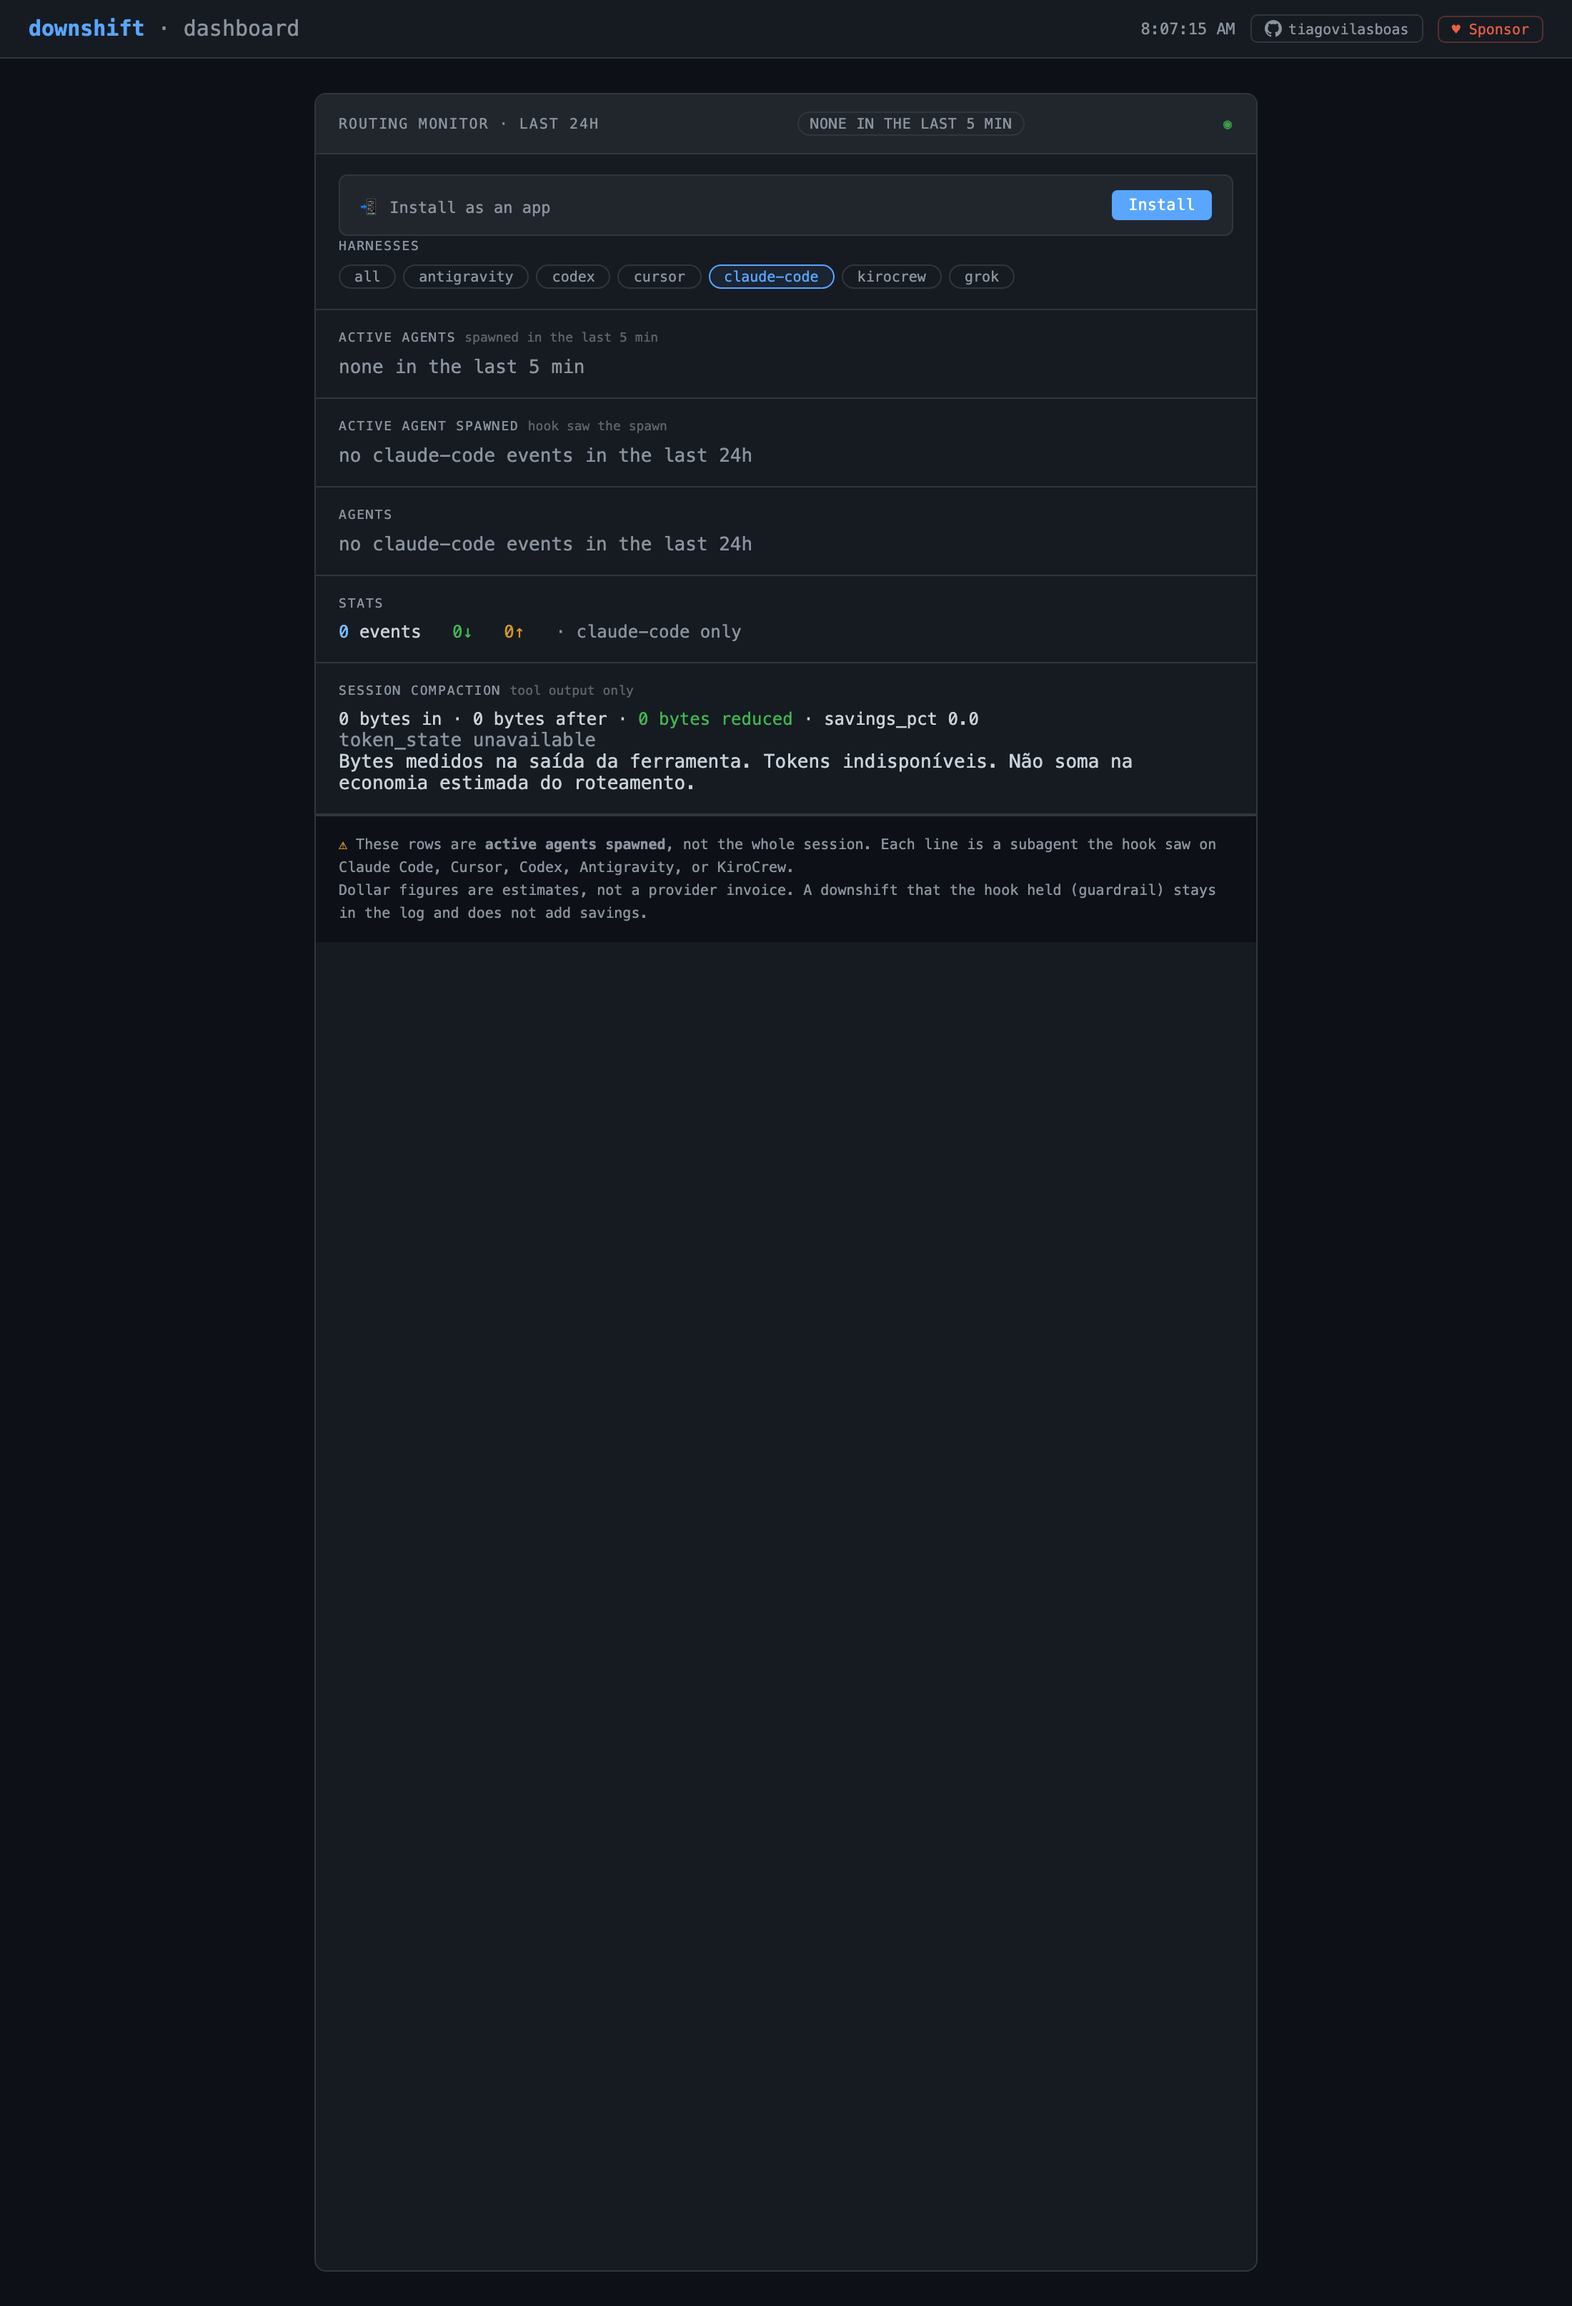
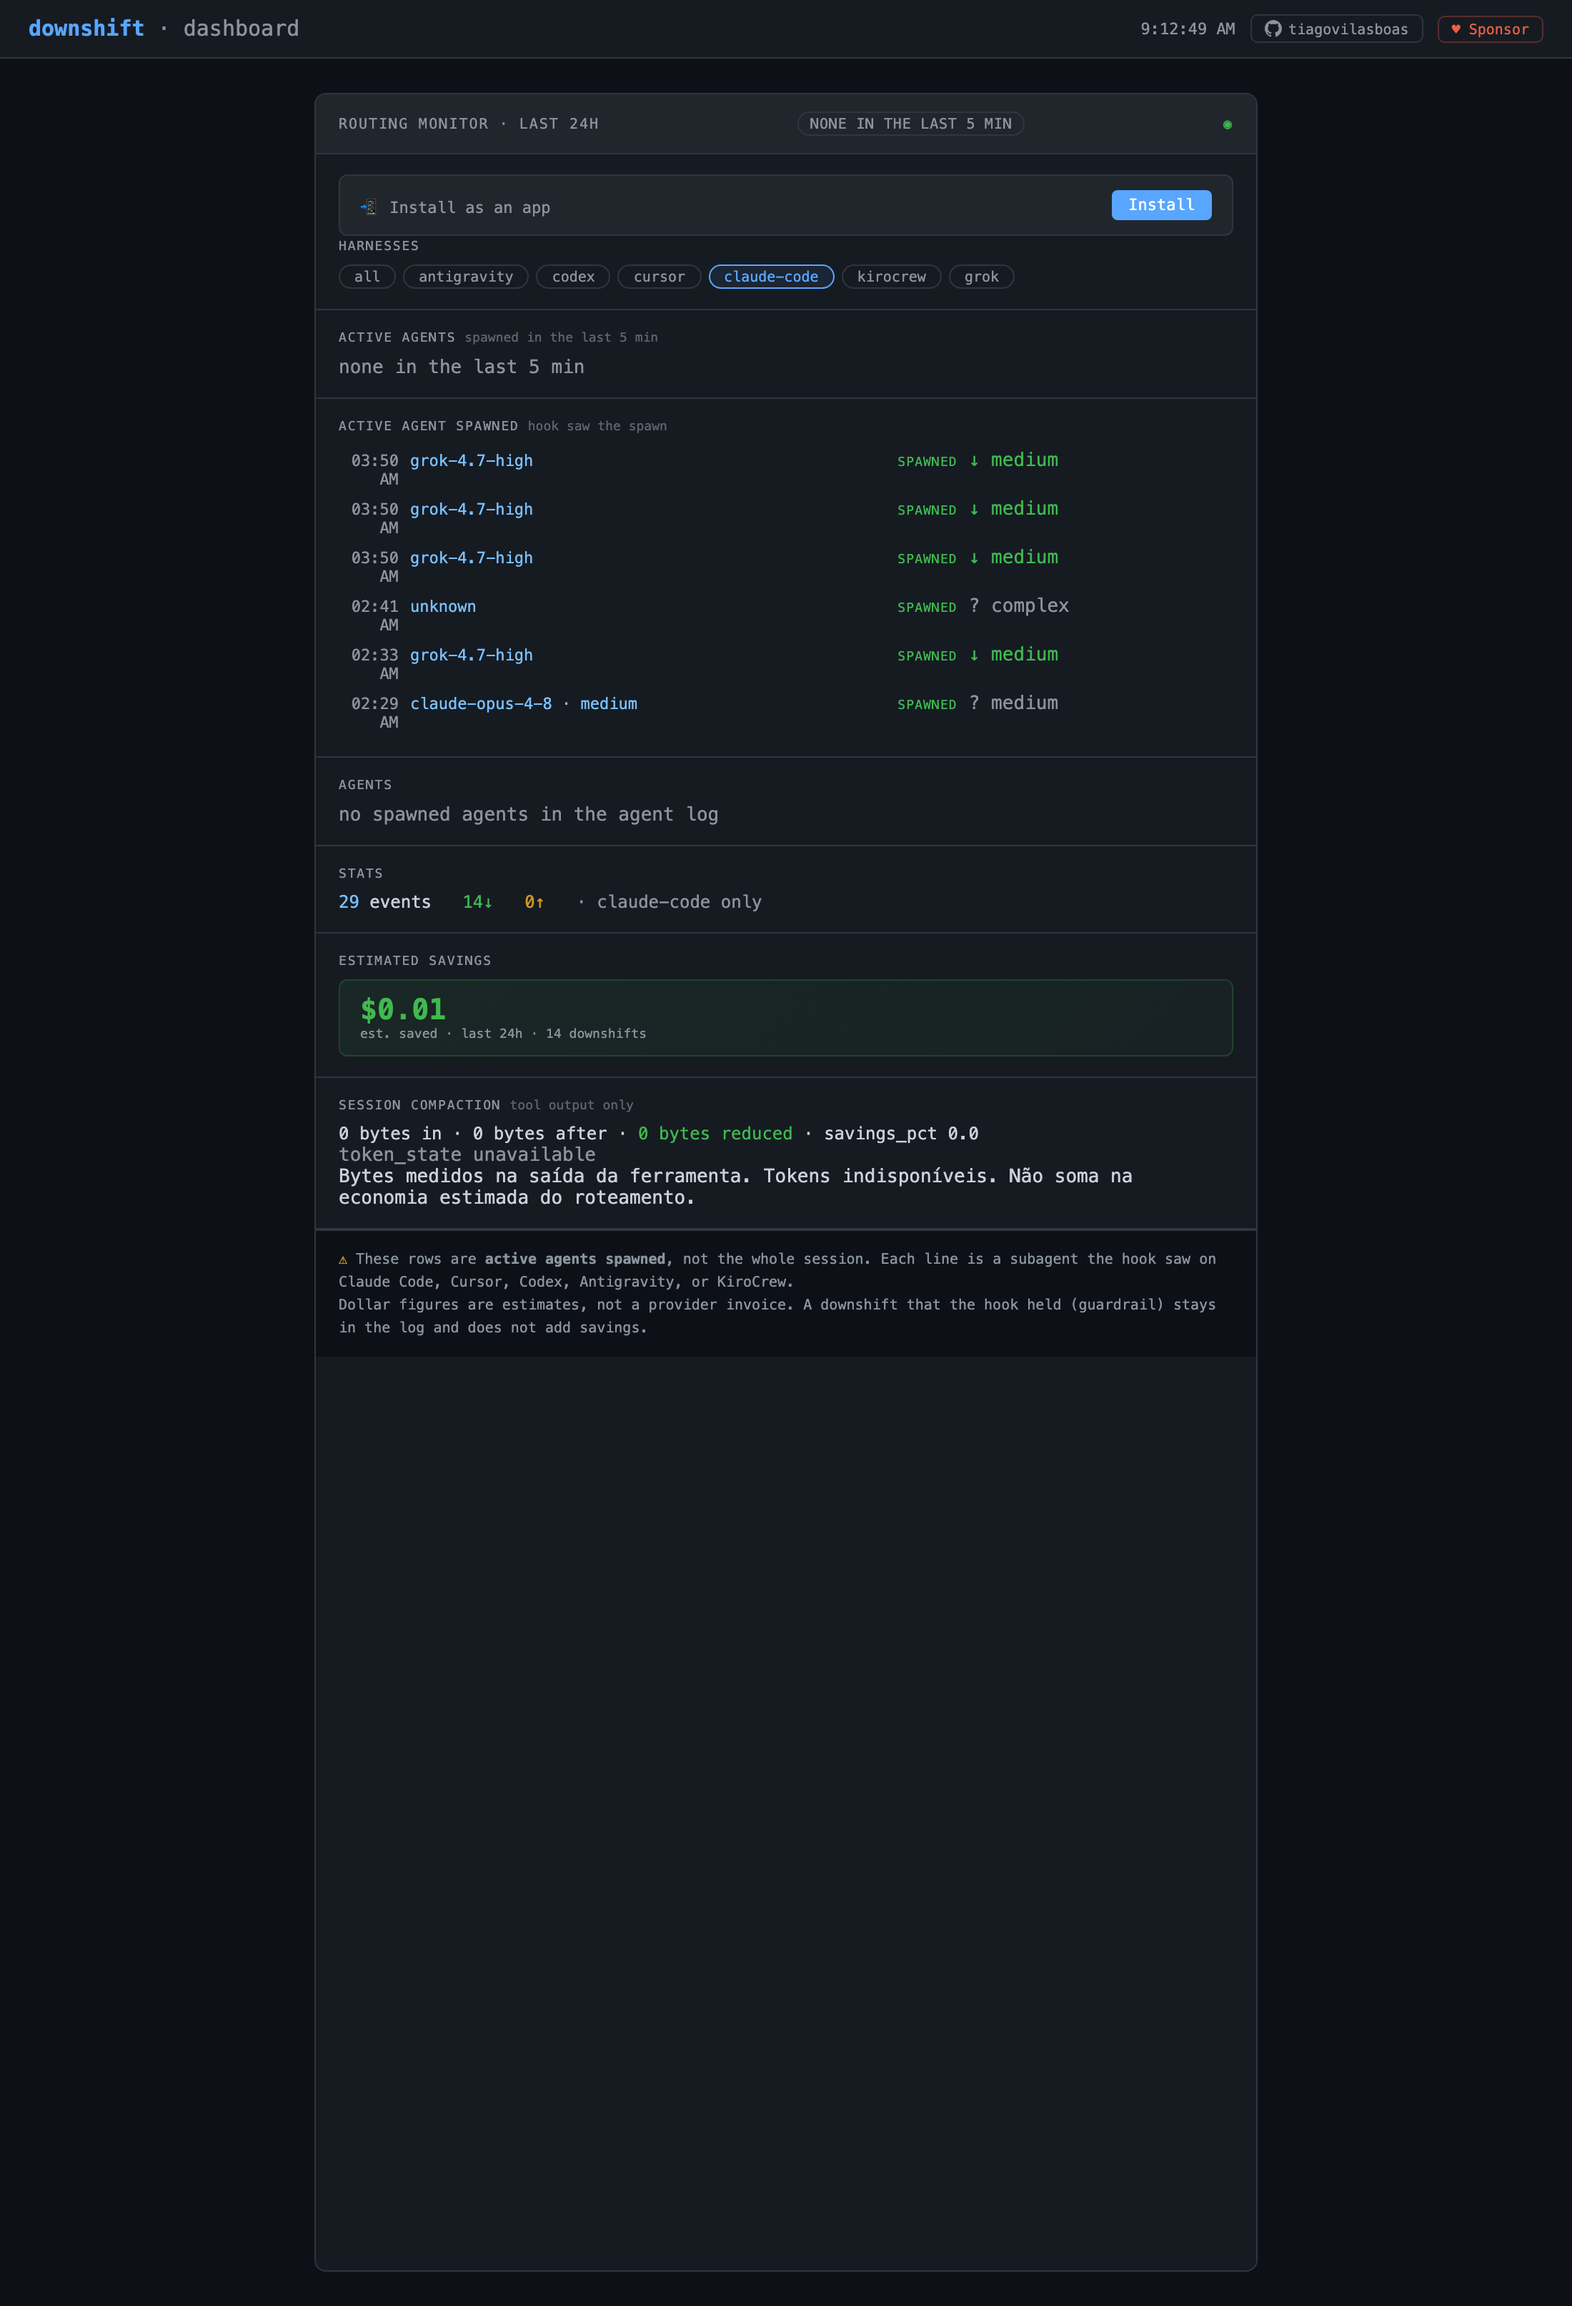
test(report): record the passing 24h e2e capture
Codex, Cursor, and Claude Code counts match the event log. KiroCrew stays empty because its last event is outside the window.

diff --git a/docs/evidence/report-e2e/report.md b/docs/evidence/report-e2e/report.md
@@ -1,44 +1,39 @@
-# Report e2e — BLOCK
+# Report e2e — PASS
 
-Captura `2026-10-09T11:07:16Z` em `http://127.0.0.1:7474`, binário `./downshift` gerado `2026-10-09 07:58:08` (depois de `fb55f8a`) e processo `./downshift serve` iniciado `07:58:14`. Sensor: `node --experimental-websocket docs/evidence/report-e2e/live-report.check.mjs` (exit 1). PNGs: `all.png`, `antigravity.png`, `codex.png`, `cursor.png`, `claude-code.png`, `kirocrew.png`, `grok.png`.
+Captura `2026-10-09T12:12:50.729Z` em `http://127.0.0.1:7474`. Health `200` às `2026-10-09T12:12:20Z` (`{"ok":true}`). O listener já devolvia a janela inteira (76 switches) e foi mantido: PID 28355, `./downshift serve`, iniciado `2026-10-09 08:58:49` local (11:58:49Z). Binário `./downshift` com mtime local `2026-10-09 08:10:51`.
 
-Log de compactação ausente: `~/.harness-downshift/context-compactions.jsonl` não existe. `compaction.by_harness` veio `{}`. Nenhuma linha de harness foi inventada.
+`go test ./internal/core/ ./internal/server/ ./internal/benchmark/ ./cmd/downshift/` — os quatro pacotes `ok` (cache).
 
-## Bloqueios
+Sensor: `node --experimental-websocket docs/evidence/report-e2e/live-report.check.mjs` (exit 0). `findings.json`: `verdict` PASS, `findings` vazio. PNGs: `all.png`, `antigravity.png`, `codex.png`, `cursor.png`, `claude-code.png`, `kirocrew.png`, `grok.png`. Relógio da tela: 9:12:49 AM local.
 
-1. **Codex mente janela de 24h.** A aba diz `no codex events in the last 24h` e `0 events`. `events.jsonl` tem 3 eventos nessa janela. Um deles é `2026-10-08T17:57:51Z`, `gpt-5.5`, `final_reasoning_effort=medium`, verdict `UPSHIFT`. A aba não mostra o id nem o effort.
-2. **Claude Code mente janela de 24h.** A aba diz `no claude-code events in the last 24h` e `0 events`. O log tem 29 eventos. Exemplo: `2026-10-09T02:02:42Z`, `claude-opus-4-8`, `final_reasoning_effort=medium`.
-3. **Cursor conta o rabo da API, não as 24h.** A aba mostra `8 events`, `4↓`, `$0.00` e 4 downshifts. O log tem 43 eventos cursor na janela. Os 8 de `/api/status` são todos `grok-4.7-xhigh` com `final_reasoning_effort=unknown` e `outcome=allow`. O `↓ medium` é a complexity `MEDIUM`. Eventos com effort ficaram de fora, por exemplo `2026-10-09T00:27:58Z` `muse-spark-1.3-high` · `high`.
-4. **Bloco agents do cursor nega os eventos da mesma tela.** Os switches listam `grok-4.7-xhigh` e o bloco agents diz `no cursor events in the last 24h`.
-
-Causa: `/api/status` devolve só os últimos 8 decisions. Na captura, os 8 são cursor. O chip trata esse rabo como a janela de 24h.
-
-Repro: abrir `http://127.0.0.1:7474`, clicar em codex, claude-code e cursor, e comparar com `events.jsonl` nas últimas 24h a partir de `2026-10-09T11:07:16Z`.
-
-Desbloqueio: cada chip lista os decisions daquele harness na janela de 24h, com id completo e `final_reasoning_effort` quando o campo existe e não é `unknown`. O bloco agents vazio não pode dizer que o harness não teve eventos quando os switches desse harness estão na tela.
+Log de 24h (`~/.harness-downshift/events.jsonl`, corte na captura): codex 2, cursor 45, claude-code 29. Antigravity, kirocrew e grok: 0. `/api/status` devolve os mesmos 76 switches (`agents` é `[]`). Compactação: `~/.harness-downshift/context-compactions.jsonl` não existe. `compaction.by_harness` veio `{}`. Nenhum nome de harness foi inventado.
 
 ## Abas
 
 | Aba | O que a tela mostrou | Julgamento |
 |---|---|---|
-| all | chips completos; 5 min vazio; 6 switches `grok-4.7-xhigh`; agents `no active agent spawned`; `75 events`, `2↓`, `1↑`; economia `$0.00` / 2 downshifts | stats batem com a API (`total` 75, `down` 2, `up` 1, `est_usd` 0.0025) |
-| antigravity | `no antigravity events in the last 24h`, `0 events` | vazio verdadeiro nesta captura: 0 eventos no log dentro de 24h |
-| codex | `no codex events in the last 24h`, `0 events` | BLOCK — o log tem 3 |
-| cursor | 6 linhas `grok-4.7-xhigh`; agents `no cursor events in the last 24h`; `8 events`, `4↓`, `0↑`; economia `$0.00` / 4 downshifts | BLOCK — log tem 43; o bloco agents nega a lista |
-| claude-code | `no claude-code events in the last 24h`, `0 events` | BLOCK — o log tem 29 |
-| kirocrew | `no kirocrew events in the last 24h`, `0 events`, 5 min vazio | vazio verdadeiro; último evento `2026-10-06T11:57:24Z` |
-| grok | `no grok events in the last 24h`, `0 events` | vazio verdadeiro; 0 eventos do harness grok na janela |
+| all | chips completos; 2 ativos nos últimos 5 min (`grok-4.7-xhigh`, cursor, 42s e 48s); 6 switches visíveis, os mais novos; agents `no spawned agents in the agent log`; `76 events`, `2↓`, `1↑`; economia `$0.00` / 2 downshifts | conta bate com `stats` (`total` 76, `down` 2, `up` 1, `est_usd` 0.0025, arredondado para `$0.00`) e com o log |
+| antigravity | `no antigravity events in the last 24h`, `0 events`, 5 min vazio | vazio verdadeiro: 0 eventos no log |
+| codex | `2 events`, `0↓`, `1↑`; linhas `gpt-5.5 · medium` (02:57 PM, `2026-10-08T17:57:51Z`, UPSHIFT) e `unknown` (01:04 PM, `2026-10-08T16:04:24Z`); 5 min vazio | bate com o log (2). Não está vazio |
+| cursor | `45 events`, `22↓`, `0↑`; economia `$0.00` / 22 downshifts; 2 ativos (`grok-4.7-xhigh`); agents não nega eventos do cursor | bate com o log (45). Não é o rabo de 8 linhas |
+| claude-code | `29 events`, `14↓`, `0↑`; economia `$0.01` / 14 downshifts; a lista visível inclui `claude-opus-4-8 · medium` (`2026-10-09T05:29:11Z`); 5 min vazio | bate com o log (29). Não está vazio |
+| kirocrew | `no kirocrew events in the last 24h`, `0 events`, 5 min vazio | vazio explícito. Último evento no log: `2026-10-06T11:57:24.855122Z`, fora da janela |
+| grok | `no grok events in the last 24h`, `0 events`, 5 min vazio | vazio verdadeiro: 0 eventos do harness grok na janela |
 
 ## Blocos
 
-- **Chips:** `all`, `antigravity`, `codex`, `cursor`, `claude-code`, `kirocrew`, `grok` em todas as telas.
-- **Events / downshifts / upshifts:** a aba all mostra 75, 2↓ e 1↑, iguais a `stats`. As abas dos harnesses usam o rabo de 8 linhas.
-- **Switches:** as linhas visíveis trazem `grok-4.7-xhigh`. O effort dessas linhas é `unknown`, então a tela não acrescenta effort. O `medium` ao lado da seta é complexity.
-- **Active agents (5 min):** `none in the last 5 min`. Válido. O spawn mais novo é `2026-10-09T10:57:22Z`, cerca de 10 min antes da captura.
-- **Economia estimada:** cartão separado da compactação. Na aba all, `$0.00` e 2 downshifts. A API traz `est_usd` 0.0025; a tela arredonda para duas casas.
-- **Compactação:** o log está vazio (arquivo ausente). A tela mostra `0 bytes in · 0 bytes after · 0 bytes reduced · savings_pct 0.0`, `token_state unavailable`, sem nomes de harness, e a frase `Bytes medidos na saída da ferramenta. Tokens indisponíveis. Não soma na economia estimada do roteamento.`
-- **Agents:** o JSON de `/api/status` é `[]`, array, nunca `null`.
+- **Chips:** `all`, `antigravity`, `codex`, `cursor`, `claude-code`, `kirocrew`, `grok` em todas as telas. O chip da aba fica selecionado.
+- **Events / downshifts / upshifts:** all usa `stats` (76, 2↓, 1↑). Cada aba de harness conta o próprio recorte de 24h: codex 2/0↓/1↑, cursor 45/22↓/0↑, claude-code 29/14↓/0↑, antigravity, kirocrew e grok em 0.
+- **Switches:** a lista pintada continua sendo as 6 linhas mais novas do recorte. A contagem é a janela. No cursor, essas 6 são `grok-4.7-xhigh` com `final_reasoning_effort=unknown` (`2026-10-09T10:25:23Z` até `2026-10-09T12:12:06Z`), então a tela não acrescenta effort nelas. O `medium` ao lado da seta é complexity. Codex mostra `medium` em `gpt-5.5`. Claude Code mostra `medium` em `claude-opus-4-8`.
+- **Active agents (5 min):** all e cursor listam os dois spawns `2026-10-09T12:12:00Z` e `2026-10-09T12:12:06Z`. As outras abas mostram `none in the last 5 min`.
+- **Economia estimada:** cartão separado da compactação. All `$0.00` / 2 downshifts. Cursor `$0.00` / 22 downshifts (`estimated_savings` somado no recorte = 0.0025). Claude Code `$0.01` / 14 downshifts (0.00925). Abas sem DOWNSHIFT não mostram o cartão.
+- **Compactação:** arquivo ausente. A tela mostra `0 bytes in · 0 bytes after · 0 bytes reduced · savings_pct 0.0`, `token_state unavailable`, sem nomes de harness, e a frase `Bytes medidos na saída da ferramenta. Tokens indisponíveis. Não soma na economia estimada do roteamento.`
+- **Agents:** o JSON de `/api/status` é `[]`. O bloco da tela diz `no spawned agents in the agent log`. Não diz que o harness da aba não teve eventos.
 
 ## Risco residual
 
-`by_harness_state` veio `observed` com `by_harness` vazio porque o arquivo não existe. A tela não inventou linha de harness.
+`by_harness_state` veio `observed` com `by_harness` vazio porque o arquivo de compactação não existe. A tela não inventou linha de harness.
+
+O `2↓` da aba all conta só DOWNSHIFT com rewrite aplicado (`stats.down`). O `22↓` do cursor e o `14↓` do claude-code contam todo verdict DOWNSHIFT do recorte. São contadores diferentes; o sensor desta captura trata isso como contrato.
+
+A lista visível de switches é a cauda de 6 linhas. Eventos com effort no meio da janela, como `2026-10-09T00:27:58Z` `muse-spark-1.3-high` · `high` no cursor, entram na contagem 45 e não aparecem nessas 6 linhas.
